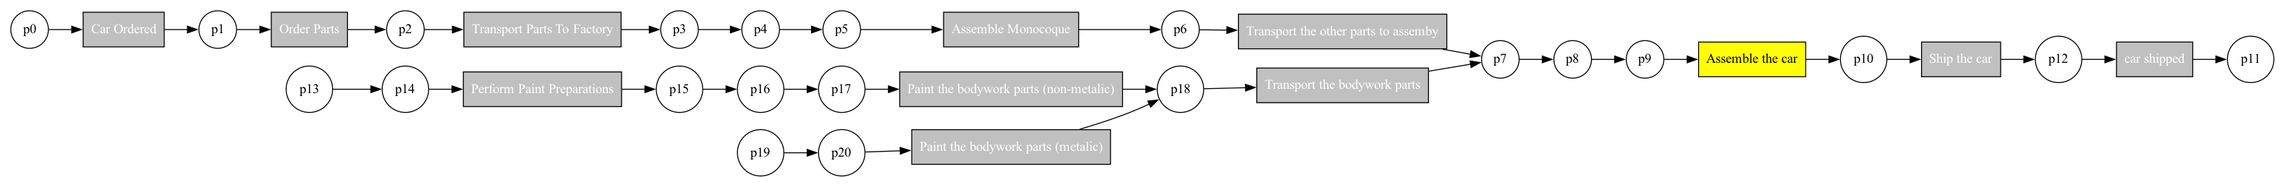
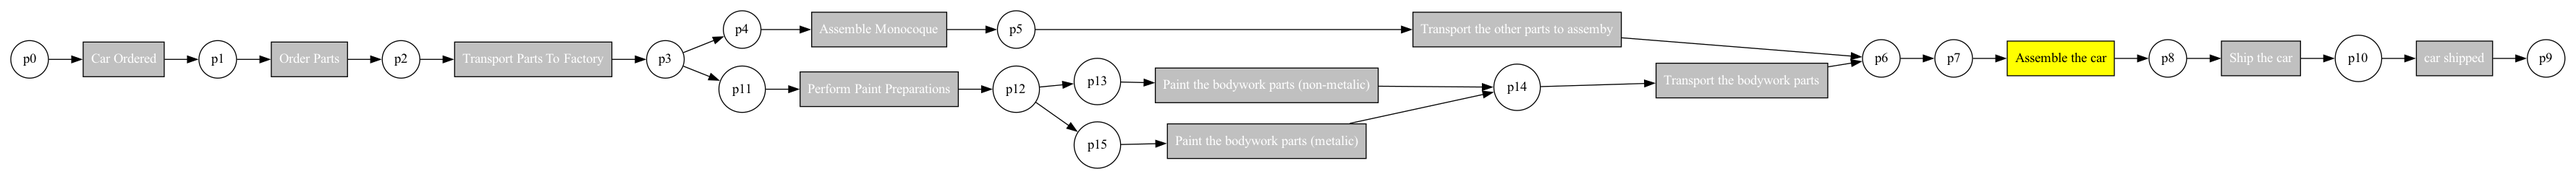
revert gateway translation updates

Changed region(s): [[0.0, 0.0565, 1.0, 0.621], [0.3103, 0.6774, 0.5586, 0.9032], [0.3103, 0.6774, 0.3724, 0.7056]]

diff --git a/utils/translation_functions.py b/utils/translation_functions.py
@@ -94,14 +94,10 @@ def translate_bpmn_element(element, petri_net, place_id, already_translated):
         already_translated.append((petri_element, element))
 
         for out_element in element.outgoing_elements:
-            transition = Transition(element.name, element.element_id)
-            petri_net.add_place(transition)
-            arc = Arc(place, transition)
-            petri_net.add_arc(arc)
 
             target = translate_bpmn_element(out_element, petri_net, place_id, already_translated)
 
-            arc = Arc(transition, target)
+            arc = Arc(place, target)
             petri_net.add_arc(arc)
 
     return petri_element
